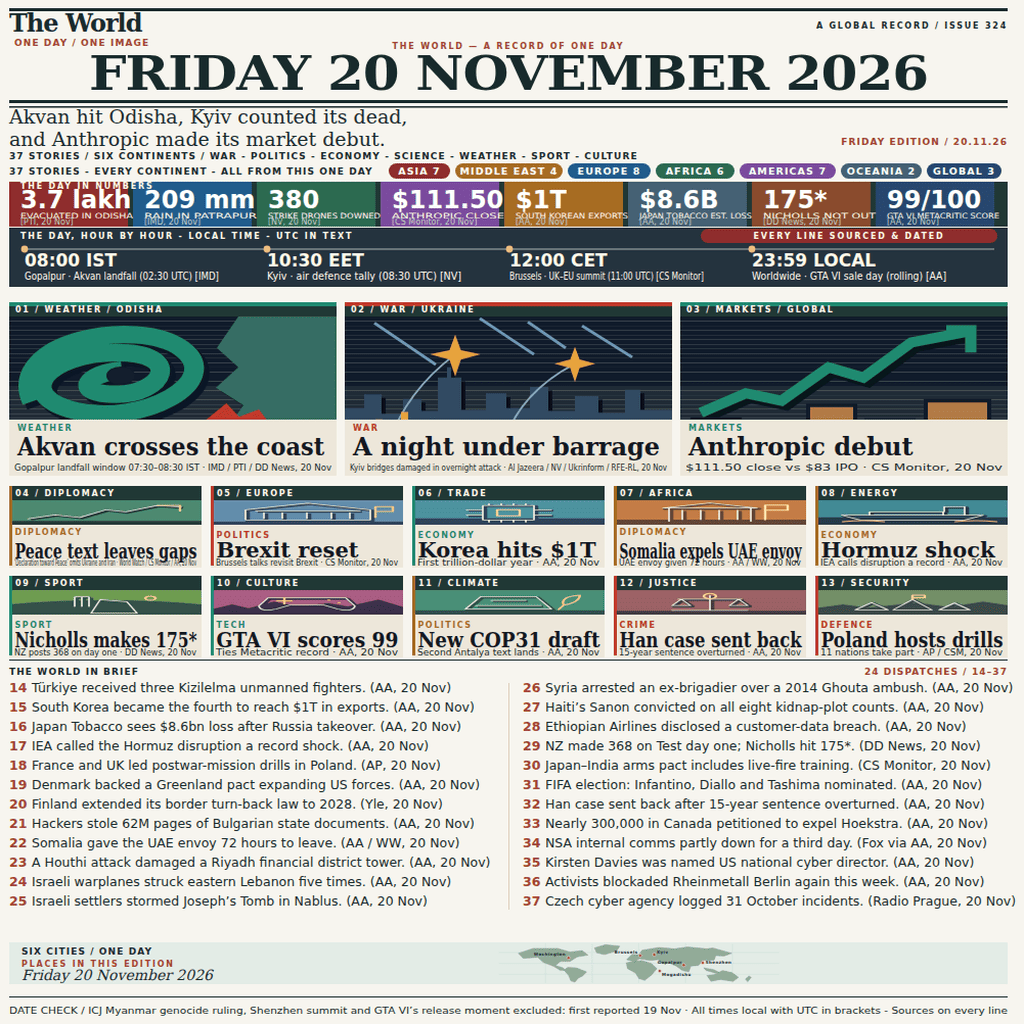
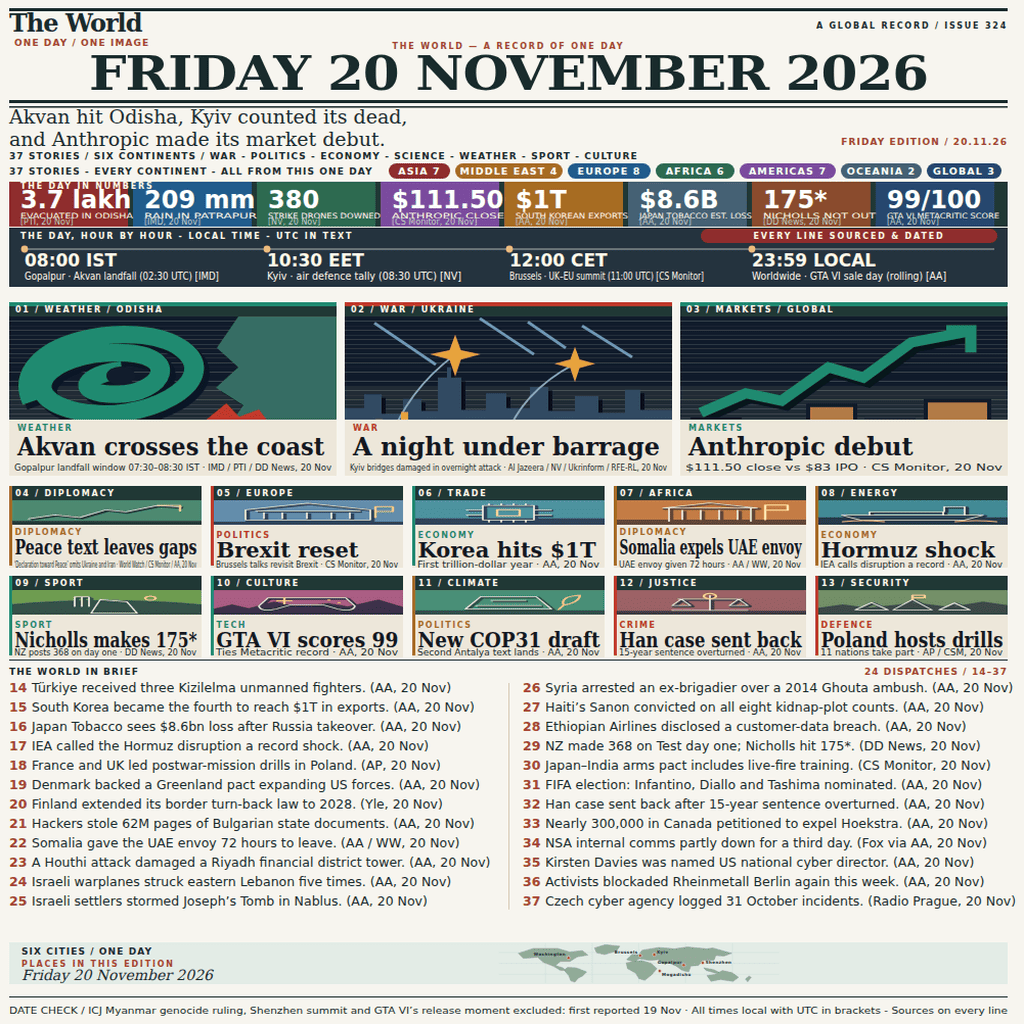
Fix card 04 title/copy collision; final entry

Changed region(s): [[0.0, 0.5312, 0.9688, 0.5625]]

diff --git a/cand.html b/cand.html
@@ -193,8 +193,8 @@ g[data-number="3"]>g>svg>path[stroke="#1f8a70"]{stroke:#1f8a70;stroke-width:11}
 <rect x="24" y="540" width="188" height="40" fill="#ede7da"/>
 <rect x="24" y="507" width="3" height="78" fill="#a66c22"/>
 <text x="29.5" y="548" class="kicker" style="fill:#a66c22">DIPLOMACY</text>
-<text x="29.5" y="571" font-size="20" class="headline" textLength="178" lengthAdjust="spacingAndGlyphs">Peace text leaves gaps</text>
-<text x="29" y="578" class="copy" textLength="178" lengthAdjust="spacingAndGlyphs">‘Declaration toward Peace’ omits Ukraine and Iran · World Watch / CS Monitor / AA, 20 Nov</text>
+<text x="29.5" y="567" font-size="20" class="headline" textLength="178" lengthAdjust="spacingAndGlyphs">Peace text leaves gaps</text>
+<text x="29" y="580" class="copy" textLength="178" lengthAdjust="spacingAndGlyphs">‘Declaration toward Peace’ omits Ukraine and Iran · World Watch / CS Monitor / AA, 20 Nov</text>
 </g>
 <g data-number="5" aria-label="Brexit reset">
 <rect x="221" y="507" width="188" height="71" fill="#ede7da"/>
@@ -213,7 +213,7 @@ g[data-number="3"]>g>svg>path[stroke="#1f8a70"]{stroke:#1f8a70;stroke-width:11}
 <rect x="221" y="507" width="3" height="78" fill="#c0392b"/>
 <text x="226.5" y="551" class="kicker" style="fill:#c0392b">POLITICS</text>
 <text x="226.5" y="570" class="headline">Brexit reset</text>
-<text x="226" y="578" class="copy" textLength="178" lengthAdjust="spacingAndGlyphs">Brussels talks revisit Brexit · CS Monitor, 20 Nov</text>
+<text x="226" y="580" class="copy" textLength="178" lengthAdjust="spacingAndGlyphs">Brussels talks revisit Brexit · CS Monitor, 20 Nov</text>
 </g>
 <g data-number="6" aria-label="Korea hits $1T">
 <rect x="418" y="507" width="188" height="71" fill="#ede7da"/>
@@ -232,7 +232,7 @@ g[data-number="3"]>g>svg>path[stroke="#1f8a70"]{stroke:#1f8a70;stroke-width:11}
 <rect x="418" y="507" width="3" height="78" fill="#1f8a70"/>
 <text x="423.5" y="551" class="kicker" style="fill:#1f8a70">ECONOMY</text>
 <text x="423.5" y="570" class="headline">Korea hits $1T</text>
-<text x="423" y="578" class="copy" textLength="178" lengthAdjust="spacingAndGlyphs">First trillion-dollar year · AA, 20 Nov</text>
+<text x="423" y="580" class="copy" textLength="178" lengthAdjust="spacingAndGlyphs">First trillion-dollar year · AA, 20 Nov</text>
 </g>
 <g data-number="7" aria-label="Somalia expels envoy">
 <rect x="615" y="507" width="188" height="71" fill="#ede7da"/>
@@ -250,8 +250,8 @@ g[data-number="3"]>g>svg>path[stroke="#1f8a70"]{stroke:#1f8a70;stroke-width:11}
 <rect x="615" y="540" width="188" height="40" fill="#ede7da"/>
 <rect x="615" y="507" width="3" height="78" fill="#a66c22"/>
 <text x="620.5" y="548" class="kicker" style="fill:#a66c22">DIPLOMACY</text>
-<text x="620.5" y="571" font-size="20" class="headline" textLength="178" lengthAdjust="spacingAndGlyphs">Somalia expels UAE envoy</text>
-<text x="620" y="578" class="copy" textLength="178" lengthAdjust="spacingAndGlyphs">UAE envoy given 72 hours · AA / WW, 20 Nov</text>
+<text x="620.5" y="567" font-size="20" class="headline" textLength="178" lengthAdjust="spacingAndGlyphs">Somalia expels UAE envoy</text>
+<text x="620" y="580" class="copy" textLength="178" lengthAdjust="spacingAndGlyphs">UAE envoy given 72 hours · AA / WW, 20 Nov</text>
 </g>
 <g data-number="8" aria-label="Hormuz shock">
 <rect x="812" y="507" width="188" height="71" fill="#ede7da"/>
@@ -270,7 +270,7 @@ g[data-number="3"]>g>svg>path[stroke="#1f8a70"]{stroke:#1f8a70;stroke-width:11}
 <rect x="812" y="507" width="3" height="78" fill="#a66c22"/>
 <text x="817.5" y="551" class="kicker" style="fill:#a66c22">ECONOMY</text>
 <text x="817.5" y="570" class="headline">Hormuz shock</text>
-<text x="817" y="578" class="copy" textLength="178" lengthAdjust="spacingAndGlyphs">IEA calls disruption a record · AA, 20 Nov</text>
+<text x="817" y="580" class="copy" textLength="178" lengthAdjust="spacingAndGlyphs">IEA calls disruption a record · AA, 20 Nov</text>
 </g>
 <g data-number="9" aria-label="Nicholls makes 175*">
 <rect x="24" y="582" width="188" height="71" fill="#ede7da"/>
